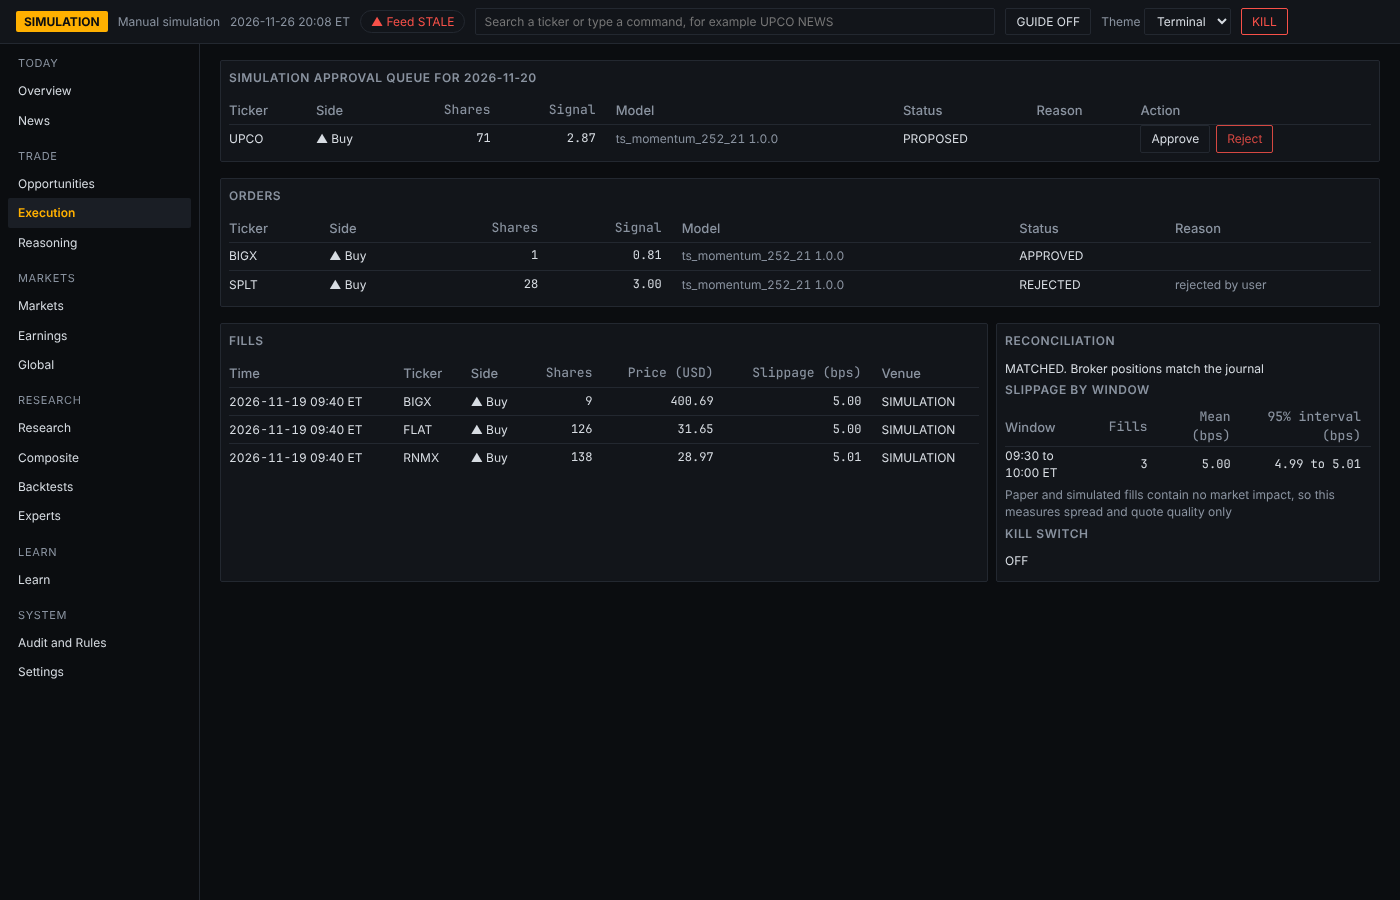
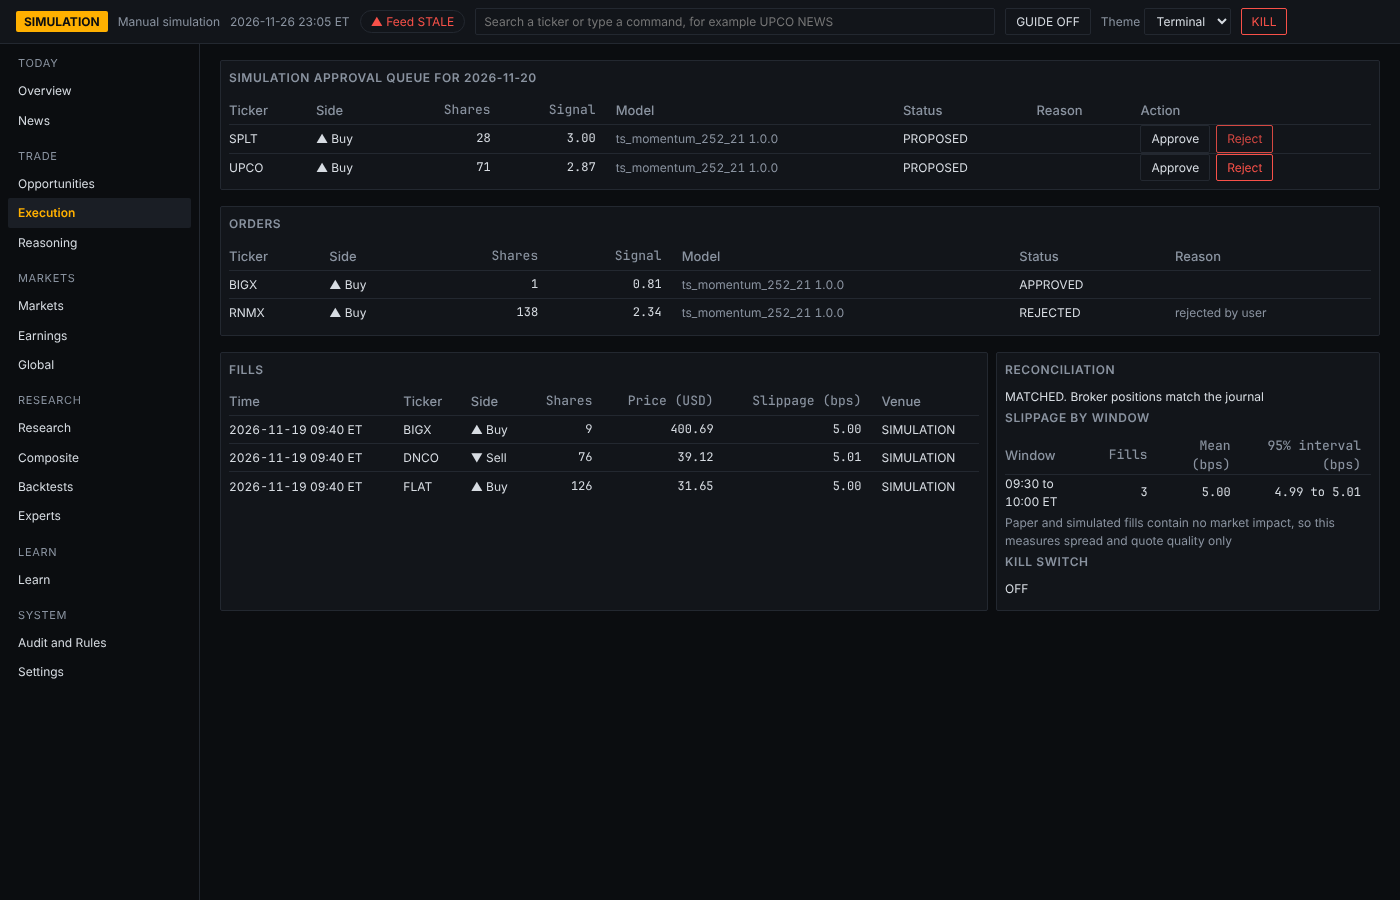
Turn short selling on at 3% per stock and 30% in total
Aditi chose these values and waived the 24-hour wait for this one change.
Tests that assumed buy-only now expect downtrends to be shorted. Also fixes
Overview failing whenever an order was blocked, because proposals never
loaded their update time, and gives demo quotes a borrow status.
346 tests and 84 interface checks pass.

Claude-Session: https://claude.ai/code/session_01EUPk53UP9zDeZb8J5vS2kx

diff --git a/tests/test_short_selling.py b/tests/test_short_selling.py
@@ -26,8 +26,12 @@ def verdict(intent, ctx, limits):
     return d.verdict, " ".join(d.reasons)
 
 
-def test_shorting_is_off_by_default(limits):
-    v, why = verdict(_sell(), make_ctx(short_allowed=True), limits)
+OFF = dict(max_short_position_pct_equity=0.0, max_short_exposure_pct_equity=0.0)
+
+
+def test_limits_hold_aditis_values_and_zero_turns_shorting_off(limits):
+    assert (limits.max_short_position_pct_equity, limits.max_short_exposure_pct_equity) == (0.03, 0.30)
+    v, why = verdict(_sell(), make_ctx(short_allowed=True), limits.model_copy(update=OFF))
     assert v is RiskVerdict.BLOCKED and "short selling is off" in why
 
 
@@ -60,7 +64,8 @@ def test_one_order_cannot_flip_long_to_short(limits):
 def test_covering_a_short_is_always_allowed_and_the_loss_stop_blocks_new_shorts(limits):
     down = dict(equity=97_000.0, day_start_equity=100_000.0)
     cover = make_intent(quantity=48.0, side=Side.BUY)
-    v, why = verdict(cover, make_ctx(position_value=-2_500.0, short_value=2_500.0, gross_value=2_500.0, **down), limits)
+    v, why = verdict(cover, make_ctx(position_value=-2_500.0, short_value=2_500.0, gross_value=2_500.0, **down),
+                     limits.model_copy(update=OFF))
     assert v is RiskVerdict.APPROVED, why  # shorting off and loss stop hit, covering still goes through
     v, why = verdict(_sell(), make_ctx(short_allowed=True, **down), _on(limits))
     assert v is RiskVerdict.BLOCKED and "daily loss stop" in why
@@ -69,7 +74,7 @@ def test_covering_a_short_is_always_allowed_and_the_loss_stop_blocks_new_shorts(
 def test_book_check_counts_shorts_gross(limits):
     on = _on(limits)
     assert evaluate_portfolio({"a": 0.04, "b": -0.03}, {"a": "c1", "b": "c2"}, on) == ()
-    assert any("short selling is off" in r for r in evaluate_portfolio({"b": -0.01}, {"b": "c"}, limits))
+    assert any("short selling is off" in r for r in evaluate_portfolio({"b": -0.01}, {"b": "c"}, limits.model_copy(update=OFF)))
     over = evaluate_portfolio({"a": 0.05, "b": -0.05}, {"a": "c1", "b": "c2"}, on)
     assert any("short 5.00% over limit" in r for r in over)
     cluster = evaluate_portfolio({f"l{i}": 0.04 for i in range(3)} | {f"s{i}": -0.03 for i in range(4)},
@@ -78,7 +83,7 @@ def test_book_check_counts_shorts_gross(limits):
 
 
 def test_turning_shorting_on_waits_24_hours_and_needs_aditi(tmp_path, limits):
-    book = LimitBook(tmp_path, limits, 24)
+    book = LimitBook(tmp_path, limits.model_copy(update=OFF), 24)
     now = datetime(2026, 11, 27, 15, tzinfo=UTC)
     with pytest.raises(LimitChangeError):
         book.request("max_short_position_pct_equity", 0.03, "system:anything", now)
@@ -122,13 +127,16 @@ def test_downtrends_are_shorted_end_to_end_once_turned_on(tmp_path):
     j.close()
 
 
-def test_without_the_change_no_short_is_even_proposed(tmp_path):
+def test_with_shorting_turned_off_no_short_is_even_proposed(tmp_path):
     from candleisgreen import operations
     from tests.phase1_env import build_env, risk_service
 
     env = build_env(tmp_path, "auto_simulation")
     env.store.close()
     env.journal.close()
+    (tmp_path / "risk").mkdir(parents=True, exist_ok=True)
+    (tmp_path / "risk" / "limit_changes.json").write_text(json.dumps({"pending": {}, "active": {
+        k: {"value": 0.0, "at": "2026-11-18T00:00:00+00:00", "by": "user:aditi"} for k in OFF}}))
     with risk_service(tmp_path / "risk") as (risk, _):
         cfg = env.cfg.model_copy(update={"execution": env.cfg.execution.model_copy(update={"risk_service_url": risk.base_url})})
         operations.decide(datetime(2026, 11, 19, 21, 31, tzinfo=UTC), tmp_path, cfg, fake=True)

diff --git a/candleisgreen/journal.py b/candleisgreen/journal.py
@@ -61,6 +61,8 @@ class Proposal:
     status: str
     reason: str
     client_order_id: Optional[str]
+    created_at: Optional[str] = None
+    updated_at: Optional[str] = None
 
 
 class Journal:
@@ -100,7 +102,7 @@ class Journal:
         row = self.conn.execute("SELECT * FROM proposals WHERE proposal_id = ?", (pid,)).fetchone()
         if row is None:
             raise KeyError(pid)
-        return Proposal(*row[:14])
+        return Proposal(*row[:16])
 
     def proposals(self, session_date: Optional[date] = None, status: Optional[str] = None) -> list[Proposal]:
         sql, args = "SELECT * FROM proposals WHERE 1=1", []
@@ -110,7 +112,7 @@ class Journal:
         if status:
             sql += " AND status = ?"
             args.append(status)
-        return [Proposal(*r[:14]) for r in self.conn.execute(sql + " ORDER BY created_at, symbol", args).fetchall()]
+        return [Proposal(*r[:16]) for r in self.conn.execute(sql + " ORDER BY created_at, symbol", args).fetchall()]
 
     def set_status(self, pid: str, status: str, actor: str, now: datetime, reason: str = "",
                    client_order_id: Optional[str] = None) -> None:

diff --git a/tests/test_safety_extras.py b/tests/test_safety_extras.py
@@ -115,7 +115,7 @@ def _decided_env(tmp_path):
 
     env = build_env(tmp_path, "manual_simulation")
     run_decision(DECISION_DATE, SESSION_DATE, env.store, env.master, env.journal, env.cfg, DECIDE_NOW)
-    buys = [p for p in env.journal.proposals(SESSION_DATE) if p.side == "buy"]
+    buys = [p for p in env.journal.proposals(SESSION_DATE) if p.side in ("buy", "sell_short")]  # orders that add risk
     env.store.close()
     return env, buys
 
@@ -138,7 +138,7 @@ def test_scheduled_preopen_cancels_a_halted_buy_and_fails_closed(tmp_path):
     out = preopen.scheduled(at_nine, tmp_path, env.cfg, fake=True, assets_source=_Assets(fail=True))
     assert {c["symbol"] for c in out["cancelled"]} == {p.symbol for p in buys[1:]}
     assert all("could not be checked" in c["reasons"][0] for c in out["cancelled"])
-    assert all(p.status == "cancelled" for p in env.journal.proposals(SESSION_DATE) if p.side == "buy")
+    assert all(p.status == "cancelled" for p in env.journal.proposals(SESSION_DATE) if p.side in ("buy", "sell_short"))
 
 
 def test_preopen_slot_follows_new_york_time(tmp_path):

diff --git a/tests/test_composite_c12.py b/tests/test_composite_c12.py
@@ -210,7 +210,9 @@ def test_risk_check_rejects_an_injected_book(cfg):
     clusters = {"a": "c1", "b": "c1", "c": "c2", "d": "c1", "e": "c1", "f": "c1"}
     assert evaluate_portfolio({"a": 0.08}, clusters, limits)  # position over 5%
     assert evaluate_portfolio({k: 0.045 for k in "abdef"}, clusters, limits)  # cluster at 22.5%
-    assert evaluate_portfolio({"a": -0.01}, clusters, limits)  # short
+    assert evaluate_portfolio({"a": -0.04}, clusters, limits)  # short over the 3% short limit
+    off = limits.model_copy(update={"max_short_position_pct_equity": 0.0, "max_short_exposure_pct_equity": 0.0})
+    assert evaluate_portfolio({"a": -0.01}, clusters, off)  # any short while shorting is off
     assert evaluate_portfolio({"zzz": 0.01}, clusters, limits)  # no cluster mapping
     assert evaluate_portfolio({"a": float("nan")}, clusters, limits)
     assert evaluate_portfolio({"a": 0.04, "c": 0.04}, clusters, limits) == ()

diff --git a/tests/test_contracts.py b/tests/test_contracts.py
@@ -115,8 +115,8 @@ def test_hard_limits_match_the_spec_defaults(limits):
     assert limits.model_dump() == {
         "max_position_pct_equity": 0.05, "max_cluster_pct_equity": 0.20, "max_order_pct_adv20": 0.01,
         "max_spread_pct": 0.005, "daily_loss_stop_pct_equity": 0.02, "max_quote_age_seconds": 15.0,
-        # Short selling ships off. Aditi turns it on through the limit workflow.
-        "max_short_position_pct_equity": 0.0, "max_short_exposure_pct_equity": 0.0,
+        # Short selling, set by Aditi on 2026-11-27 (DECISIONS D-108).
+        "max_short_position_pct_equity": 0.03, "max_short_exposure_pct_equity": 0.30,
         "max_gross_exposure_pct_equity": 1.0,
         "execution_grade_feeds": ("iex_realtime", "fixture_realtime"),
     }

diff --git a/candleisgreen/demo.py b/candleisgreen/demo.py
@@ -41,7 +41,8 @@ def _quotes(store, master, now):
             for sym in master.symbols(inst["instrument_id"]):
                 out[sym] = Quote(asset_id=inst["instrument_id"], bid=round(mid * 0.9995, 4), ask=round(mid * 1.0005, 4),
                                  quote_time=now - timedelta(seconds=2), feed="fixture_realtime", bid_size=100, ask_size=100)
-    return FixedQuotes(out)
+    # The synthetic market lists every active name as shortable and easy to borrow, like the fake Alpaca assets.
+    return FixedQuotes(out, shortable=frozenset(out))
 
 
 def build(workdir: Path) -> None:

diff --git a/tests/test_phase1_acceptance.py b/tests/test_phase1_acceptance.py
@@ -25,8 +25,9 @@ def test_decision_proposes_buys_for_uptrends_only(tmp_path):
     props = env.journal.proposals(SESSION_DATE)
     symbols = {p.symbol for p in props}
     assert res.forecasts >= 5 and props
-    assert all(p.side == "buy" for p in props)
-    assert "DNCO" not in symbols and "DLST" not in symbols
+    sides = {p.symbol: p.side for p in props}
+    assert all(s in ("buy", "sell_short") for s in sides.values())
+    assert sides.get("DNCO") == "sell_short" and "DLST" not in symbols  # downtrend shorted, delisted name ignored
     assert {"UPCO", "SPLT"} <= symbols
 
 

diff --git a/tests/test_api.py b/tests/test_api.py
@@ -57,7 +57,7 @@ def test_replay_and_predictions_through_the_api(tmp_path):
     later = api.get("/api/predictions", params={"cursor": "2026-10-08T21:30:00+00:00"}).json()
     assert later["predictions"][0]["outcome"] in (0, 1) and later["calibration"]["resolved"] == 1
     why = api.get("/api/reasoning", params={"symbol": "DNCO"}).json()
-    assert why["why_not"] and "not positive" in why["why_not"]
+    assert why["proposal"]["side"] == "sell_short"  # a downtrend is a short candidate now that shorting is on
 
 
 def test_workstation_screens_through_the_api(tmp_path):

diff --git a/RISK_POLICY.md b/RISK_POLICY.md
@@ -34,15 +34,15 @@ Correlated clusters come from `candleisgreen/clusters.py` (decision Q7). Each mo
 
 ### Short selling
 
-Short selling ships off. Three hard limits govern it, all Aditi's, all changed only through the limit workflow:
+Short selling is on. Aditi set the values on 2026-11-27 and waived the 24-hour wait for that one change (DECISIONS D-108). Three hard limits govern it, all Aditi's, and later changes go through the limit workflow:
 
 | Limit | Default | Meaning |
 | --- | --- | --- |
-| `max_short_position_pct_equity` | 0 (off) | Largest short in one stock, as a share of equity |
-| `max_short_exposure_pct_equity` | 0 (off) | All shorts together |
+| `max_short_position_pct_equity` | 0.03 | Largest short in one stock, as a share of equity. 0 turns shorting off |
+| `max_short_exposure_pct_equity` | 0.30 | All shorts together |
 | `max_gross_exposure_pct_equity` | 1.0 | Longs plus absolute shorts. 1.0 means nothing is borrowed to trade |
 
-Raising either short limit from 0 is a loosening: it waits `risk.loosening_delay_hours` and needs Aditi's second confirmation. Setting them back to 0 applies at once. The Audit and Rules screen has a Short selling card for this.
+Raising a short limit is a loosening: it waits `risk.loosening_delay_hours` and needs Aditi's second confirmation. Setting them back to 0 applies at once. The Audit and Rules screen has a Short selling card for this.
 
 Every order is classed by what it does to the position. Orders that add risk (a buy that grows a long, a sale that opens or grows a short) face the position, short, gross, cluster and daily loss checks. Orders that reduce risk (selling a long, buying to cover a short) pass those checks even after the daily loss stop. A short also needs the broker to list the stock as shortable and easy to borrow, and an unknown borrow status blocks it. Hard-to-borrow stocks are never shorted, because they need a locate. One order can never turn a long into a short. The position is closed first and the short can open at the next decision. Clusters and sectors count longs and shorts together, by absolute value.
 

diff --git a/HANDOFF.md b/HANDOFF.md
@@ -38,9 +38,9 @@ The overnight run stopped at about 01:35 ET when the usage limit was reached, so
 21. **Concept map and daily lesson.** Glossary terms carry prerequisites, the Learn screen lists them in learning order, and one lesson a day uses the largest recorded move on the latest session, with its source and the time it became known.
 22. **Experiment lab.** A plain-words idea becomes a null hypothesis, a data plan with free substitutes for missing data, and a holdout test rule, then is pre-registered through the same factory as a paper. The server redesigns the idea on submit, so the stored plan is exactly what the rules produce.
 23. **Interface redesign.** Light theme, grouped sidebar, a calmer front page (key numbers, next session plan, top stories, holdings), opportunity rows that open their evidence, Learn and Research in tabs, and a stock panel for any ticker. News cards give the source summary, why that kind of news can matter, the companies named, and what their prices did next, with market-relevant stories first.
-24. **Short selling.** Built through the decision, risk service, executor, pre-open check and screens, and shipped off. Aditi turns it on from the Short selling card on Audit and Rules, which waits 24 hours and asks again. Options, crypto and futures stay off, with reasons in the capability map.
+24. **Short selling, on.** Built through the decision, risk service, executor, pre-open check and screens. Aditi set 3% per stock and 30% in total on 2026-11-27 and waived the 24-hour wait once. The Short selling card on Audit and Rules turns it off at once, and turning it back on waits 24 hours. Options, crypto and futures stay off, with reasons in the capability map.
 
-Full suite: 346 passed. Playwright: 82 checks. Details in `TEST_RESULTS.md`. Phase 7 (live trading) is not started and needs a separate written decision from Aditi.
+Full suite: 346 passed. Playwright: 84 checks. Details in `TEST_RESULTS.md`. Phase 7 (live trading) is not started and needs a separate written decision from Aditi.
 
 ## Half done
 

diff --git a/DECISIONS.md b/DECISIONS.md
@@ -111,3 +111,5 @@ Choices made where the spec was silent, or where the review changed it. Newest l
 | D-105 | 2026-11-27 | Only shortable, easy-to-borrow stocks are shorted. A long never flips to a short in one order | Locates for hard-to-borrow names cost money and Alpaca rejects many flips. Two steps keep each order simple |
 | D-106 | 2026-11-27 | Orders that reduce risk (sell a long, cover a short) pass the loss stop and exposure checks. The daily loss stop and pre-open check stop only risk-increasing orders | Generalizes D-009 to shorts. A stop must never trap a losing short |
 | D-107 | 2026-11-27 | Options, crypto and futures are not turned on. Options fail the execution-grade quote rule on the free indicative feed. Crypto is possible but not built. Futures are not offered by Alpaca | Found in Alpaca's documentation on 2026-11-27 |
+| D-108 | 2026-11-27 | Aditi turned short selling on at 3% per stock and 30% in total, and chose to waive the 24-hour wait for this one change. The values are set in `config/default.yaml`. Later loosenings still wait | Aditi's decision in chat, after being shown the rule and the alternatives |
+| D-109 | 2026-11-27 | The demo's fixed quotes list every active synthetic name as easy to borrow, matching the fake Alpaca assets | Without a borrow status every demo short was blocked, which is correct for real data but hid the feature |

diff --git a/TEST_RESULTS.md b/TEST_RESULTS.md
@@ -297,4 +297,4 @@ Interface check: 79 Playwright checks passed, now including the light theme, sto
 | --- | --- | --- |
 | `tests/test_short_selling.py` | 15 | Off by default, a short within every limit approved, each short rule blocks (borrow refused, borrow unknown, per-stock, pending shorts, total short, gross exposure, missing data), no long-to-short flip, covering always allowed even after the loss stop, gross counting in the book check, turning on waits 24 hours and needs Aditi, a downtrend shorted end to end through the risk service process within the 3% limit, and no short proposed while the limits are 0 |
 
-Interface check: 82 Playwright checks passed, including the Short selling card starting OFF and its request waiting for the delay and a confirmation.
+Interface check: 84 Playwright checks passed. The Short selling card shows ON at 3% and 30%, turning off applies at once, and turning back on waits for the delay and a confirmation. The demo now holds a real DNCO short. The run also found a latent bug: Overview failed whenever an order was blocked, because proposals never loaded their update time. Fixed.
